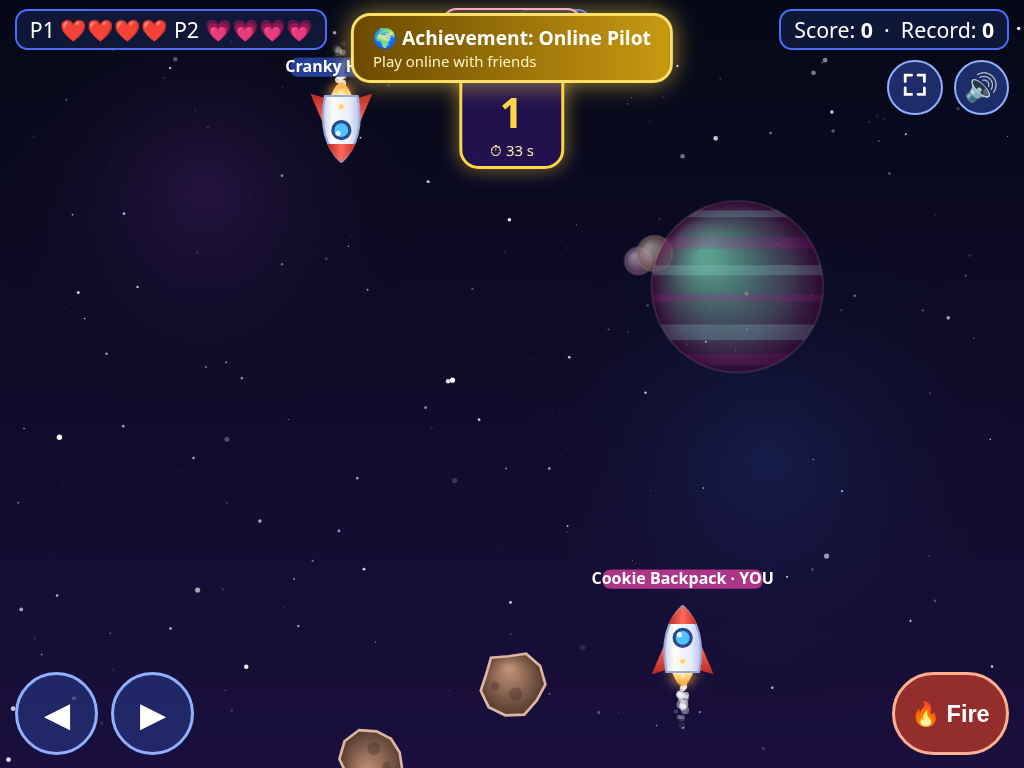
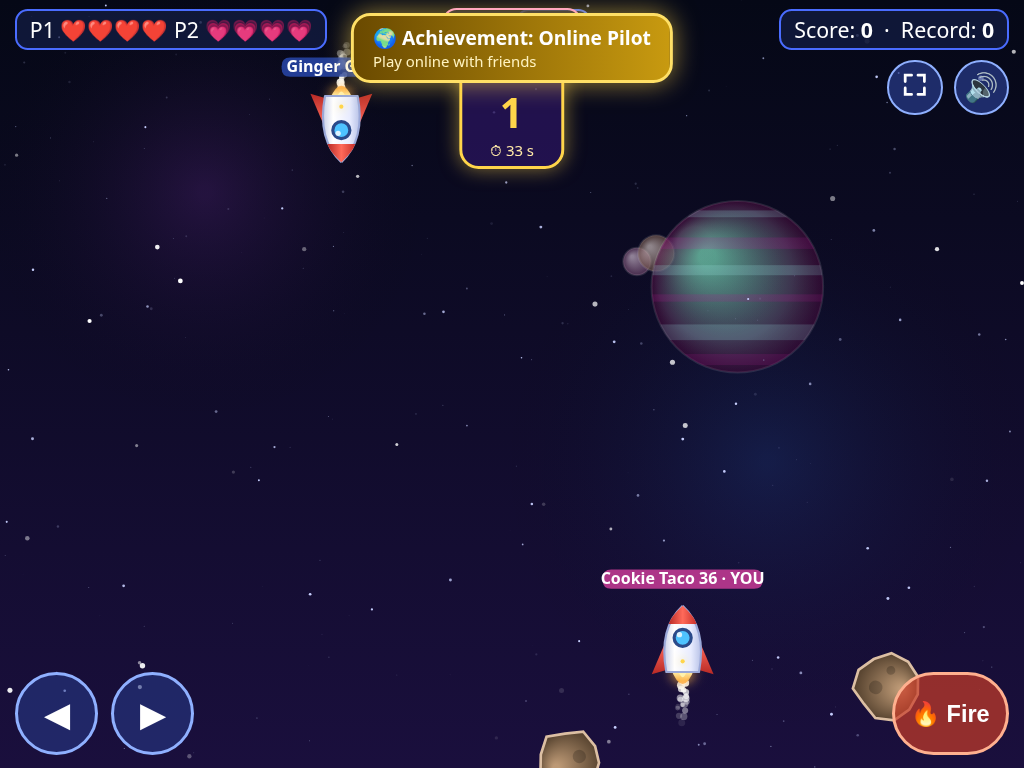
fix: append publicRoom.versus with default false for auto-migration (#30)
#29 inserted versus mid-table without a default, so maincloud publish
refused a reorder plus a column add. Move versus after heartbeat and
annotate t.bool().default(false) so existing public_room rows migrate
in place without --delete-data.

diff --git a/server/spacetimedb/src/index.ts b/server/spacetimedb/src/index.ts
@@ -368,8 +368,8 @@ const spacetimedb = schema({
       level: t.u32(),
       players: t.u32(),
       inGame: t.bool(),
-      versus: t.bool(),
       heartbeat: t.timestamp(),
+      versus: t.bool().default(false),
     }
   ),
 
@@ -2793,8 +2793,8 @@ function upsertPublicRoom(ctx: AnyCtx, code: string, hostName: string, level: nu
     level: Math.max(1, Math.min(MAX_LEVEL, Math.floor(level) || 1)),
     players: Math.max(1, Math.min(cap, Math.floor(players) || 1)),
     inGame: !!inGame,
-    versus: isVersus,
     heartbeat: ctx.timestamp,
+    versus: isVersus,
   };
   if (existing) {
     if (identityKey(existing.hostIdentity) !== identityKey(ctx.sender)) throw new Error('Not your room');

diff --git a/tests/versus-html.test.ts b/tests/versus-html.test.ts
@@ -48,7 +48,7 @@ describe('versus HTML and module wiring', () => {
     expect(server).toMatch(/versusQueue:\s*table\(\s*\{\s*public:\s*true/);
     expect(server).toContain('versusSettled');
     expect(server).toContain('versusPrizeDay');
-    expect(server).toContain('versus: t.bool()');
+    expect(server).toMatch(/heartbeat:\s*t\.timestamp\(\),\s*versus:\s*t\.bool\(\)\.default\(false\)/);
     expect(server).toContain('export const publishPublicRoom');
     expect(server).toContain('export const publishVersusQueue');
     expect(server).toContain('export const claimVersusQueue');

diff --git a/src/lib/module_bindings/types.ts b/src/lib/module_bindings/types.ts
@@ -315,8 +315,8 @@ export const PublicRoom = __t.object("PublicRoom", {
   level: __t.u32(),
   players: __t.u32(),
   inGame: __t.bool(),
-  versus: __t.bool(),
   heartbeat: __t.timestamp(),
+  versus: __t.bool(),
 });
 export type PublicRoom = __Infer<typeof PublicRoom>;
 

diff --git a/src/lib/module_bindings/public_room_table.ts b/src/lib/module_bindings/public_room_table.ts
@@ -17,6 +17,6 @@ export default __t.row({
   level: __t.u32(),
   players: __t.u32(),
   inGame: __t.bool().name("in_game"),
-  versus: __t.bool(),
   heartbeat: __t.timestamp(),
+  versus: __t.bool(),
 });
